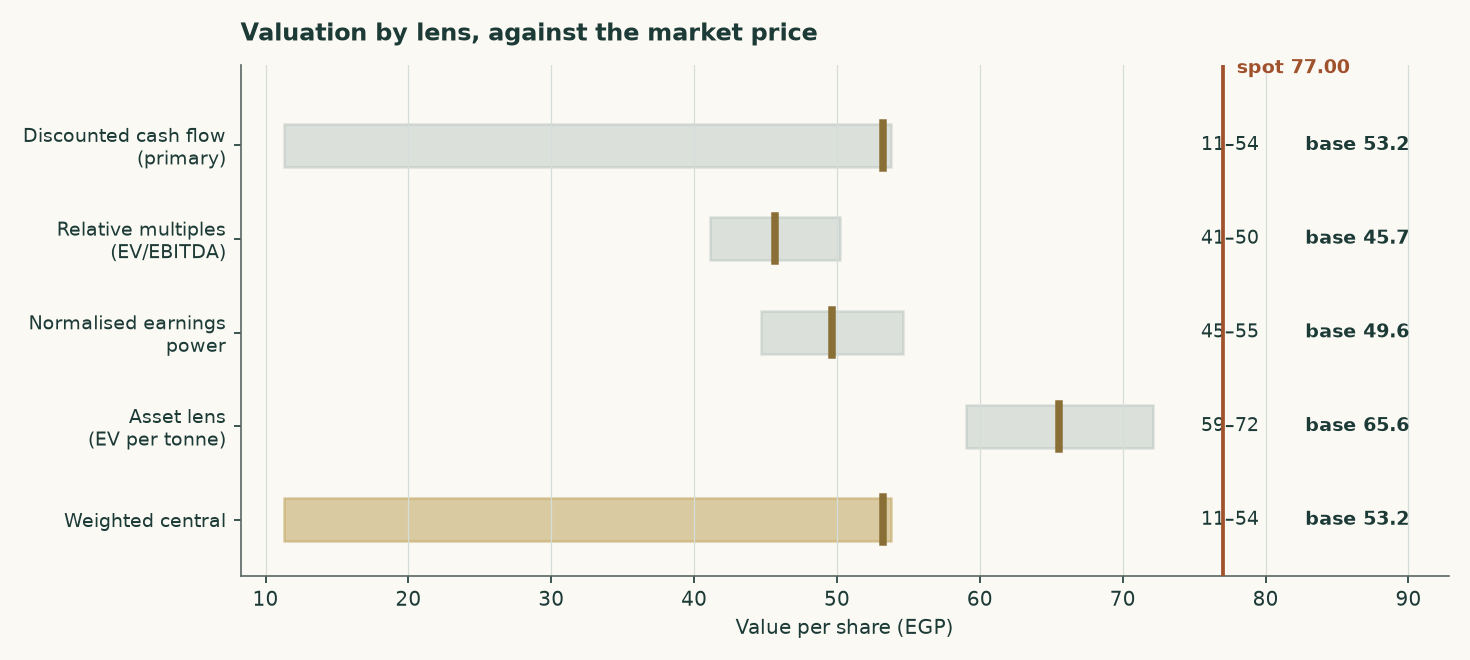
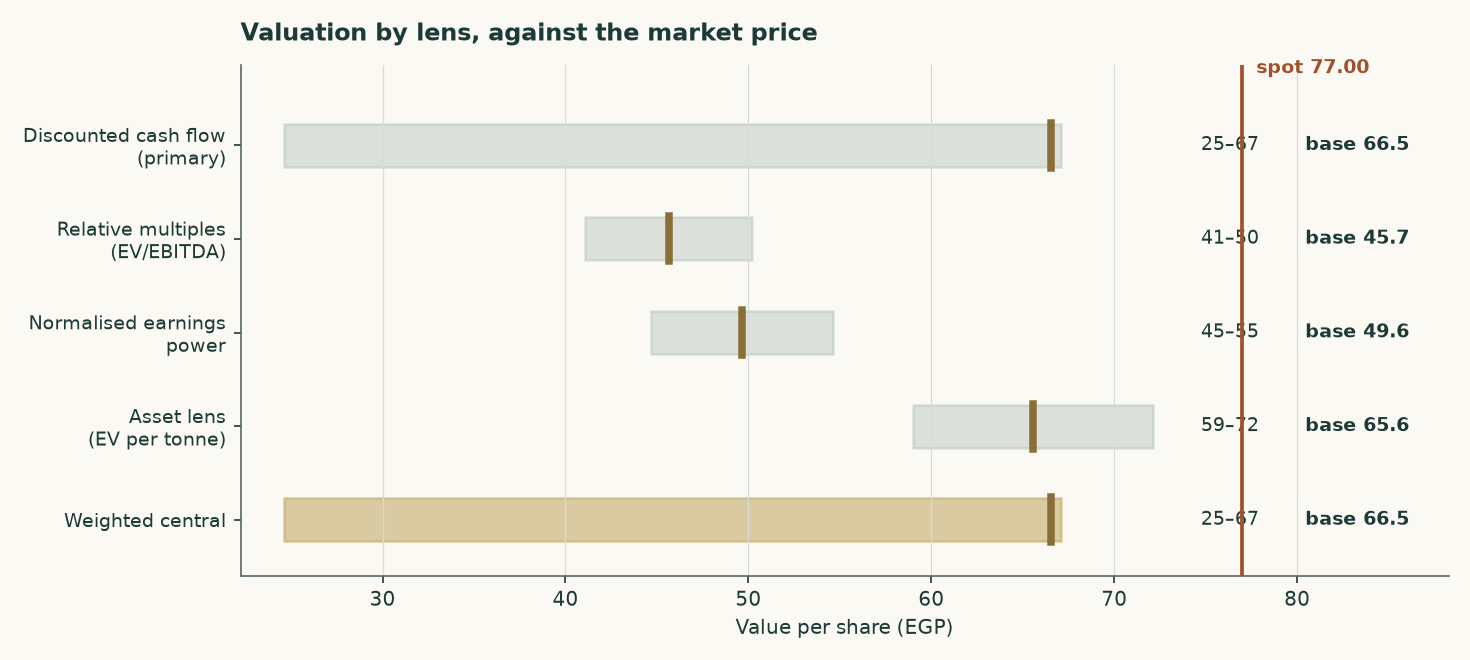
ARCC's review quoted a reverse read it had not computed — 16.9% against a real 17.77%
The replacement gap review carried a typed implied cost of capital. The
diagnostic computes 17.77% against the study's own schedule equivalent of 19.80%,
a disagreement of 203 basis points on the price of time, and the review said
16.9%. A NUMBER STATED IN PROSE MUST BE COMPUTED, NOT TYPED — the rule this
session has spent the day enforcing on twenty-four studies, broken in the
document written to close a defect. Corrected to the computed pair, and the
verdict now locates the residual where the study's own record already puts it:
beta, named as its most consequential contested judgement at 12.0% of value,
which enters through exactly that rate.

Also regenerated from the corrected numbers: diagnostics_arcc (reverse read and
the contested-judgement register), efg_bridge and its figure, the sector and
expert figures, and engine/Fundamental_Calibration_FV_Register.md.

Claude-Session: https://claude.ai/code/session_017RcjXG4ETjADcoFJf123yY

diff --git a/engine/arcc_study/GAP_REVIEW_03-09-2026.md b/engine/arcc_study/GAP_REVIEW_03-09-2026.md
@@ -147,10 +147,13 @@ of capital of 14.79% against an Egyptian sovereign yield of 22.95%, and conclude
 market was discounting Egyptian cement 816bp below its own government. **That reverse read
 was arithmetically correct and its interpretation was wrong**, because it was solved on a
 model whose terminal was mis-specified. Re-solved on the corrected model the price implies a
-flat rate of 16.9% — still below the sovereign, and now a much smaller and more ordinary
-disagreement about a terminal rate rather than an implausible one. **A reverse read is only
-as good as the model it is read backwards through**, and that is a general caution about the
-instrument, not a criticism of this one use of it.
+flat **17.77%** against this study's own schedule equivalent of **19.80%** — a disagreement
+of 203 basis points on the price of time, not 816 below the sovereign. **A reverse read is
+only as good as the model it is read backwards through**, and that is a general caution about
+the instrument, not a criticism of this one use of it. The study's own record names beta as
+its most consequential contested judgement, worth 12.0% of value, and beta enters through
+exactly this rate — so the residual disagreement sits in the one place the study already
+calls contested.
 
 ## 5. TERMINAL
 
@@ -240,7 +243,7 @@ disagreement, priced: the market pays USD 112 per annual tonne and this model pa
 against a replacement cost of USD 130. Under [R-GAP-02] the study remains **HELD** past the
 ten per cent publication limit and no market dissent is filed, because on this evidence none
 is warranted — a reverse read landing on a believable number is evidence *against* a dissent,
-and 16.9% is believable.
+and a 203-basis-point disagreement about the price of time is believable.
 
 *AUDITED CENTRAL: 66.5300* — the figure this review audits, stated so a job outside the study
 can tell whether the review still audits the answer the study publishes.

diff --git a/engine/Fundamental_Calibration_FV_Register.md b/engine/Fundamental_Calibration_FV_Register.md
@@ -21,7 +21,7 @@ Internal record. No rating, no price target, no recommendation — a range and w
 | # | name | ccy | scope | old base | new base | base | bear | full | built to → | lessons |
 |---|---|---|---|---|---|---|---|---|---|---|
 | 33 | AMOC | EGP | light | 5.9500 | 11.4012 | +91.6% | -59.1% | +180.6% | (study carries no stamp) → 2026.09.01 | L-082 |
-| 34 | ARCC | EGP | light | 54.6500 | 53.2091 | -2.6% | -77.2% | -12.9% | (study carries no stamp) → 2026.09.01 | L-072 |
+| 34 | ARCC | EGP | full | 54.6500 | 66.5300 | +21.7% | -50.3% | +16.9% | (study carries no stamp) → 2026.09.01 | — |
 | 35 | EGCH | EGP | full | 3.6400 | 2.3109 / 6.2591 (two-sided) | n/a | n/a | -59.5% | (study carries no stamp) → 2026.09.01 | L-080 |
 | 36 | PHDC | EGP | full | unrecoverable | 17.8478 | n/a | n/a | n/a | 2026.08.23 → 2026.09.01 | L-073 |
 | 37 | TMGH | EGP | full | 147.1200 | 91.8306 | -37.6% | -23.8% | -35.1% | (study carries no stamp) → 2026.09.01 | — |
